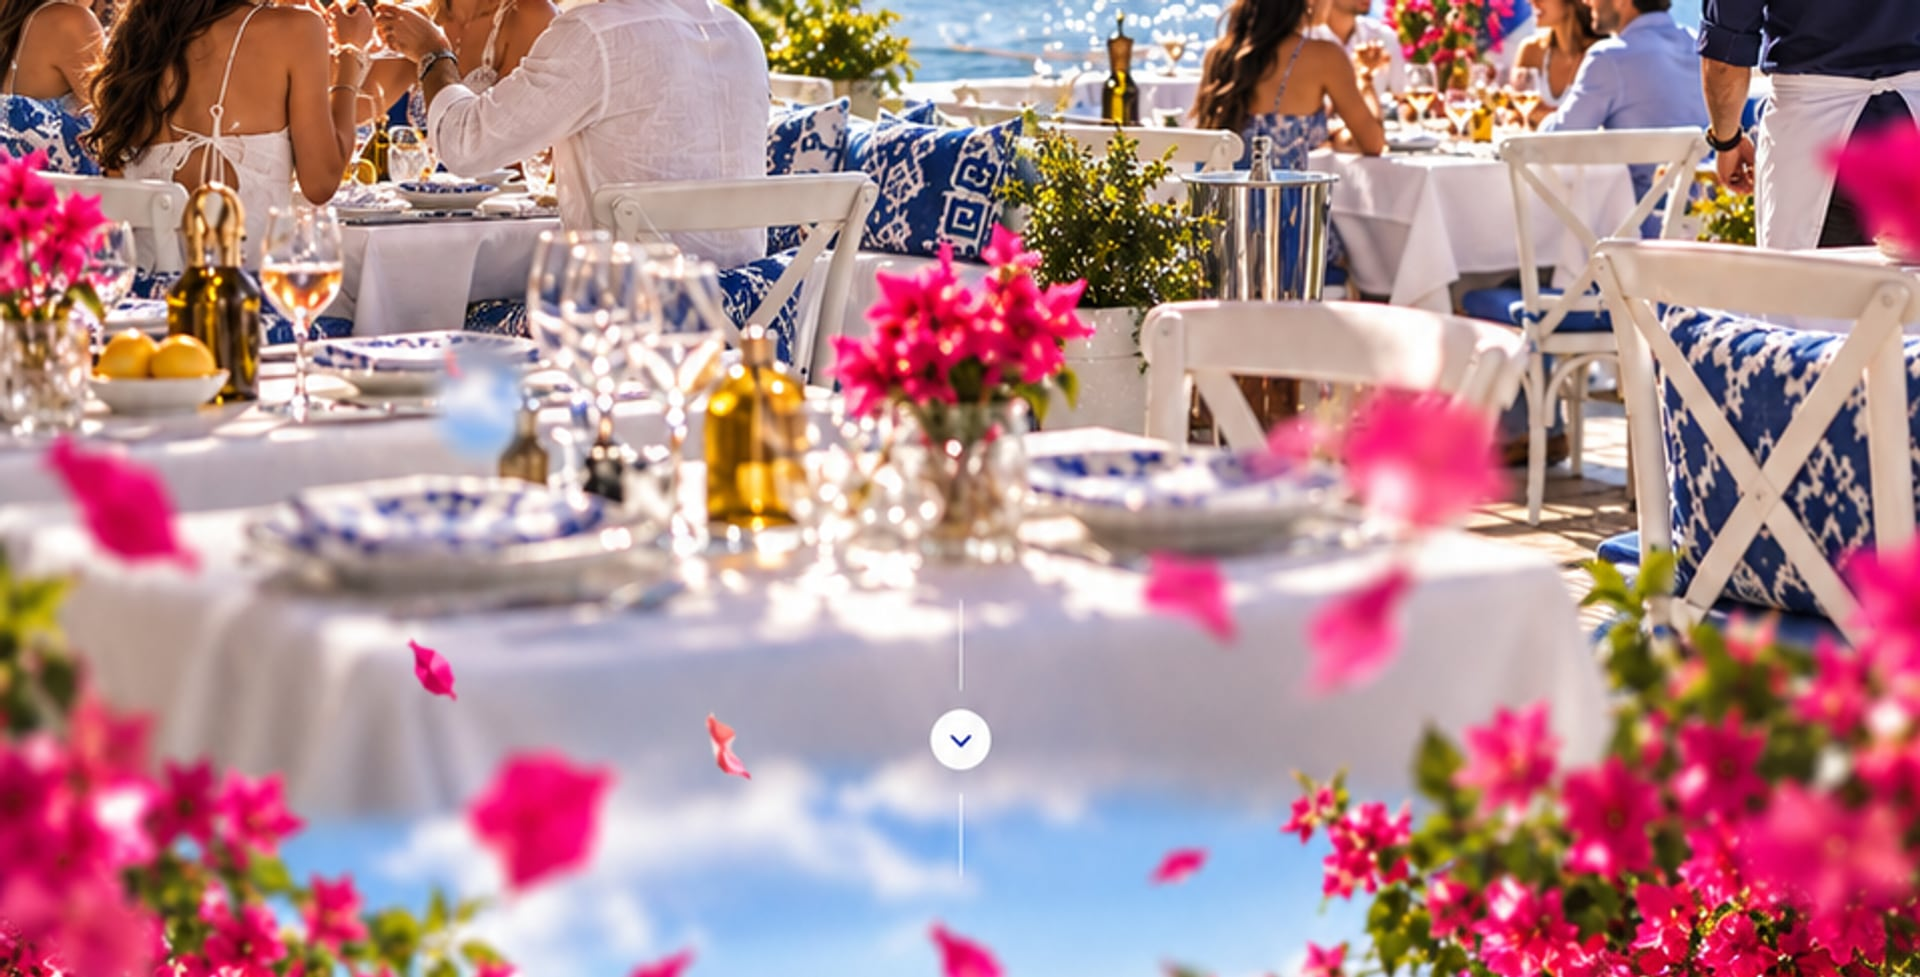
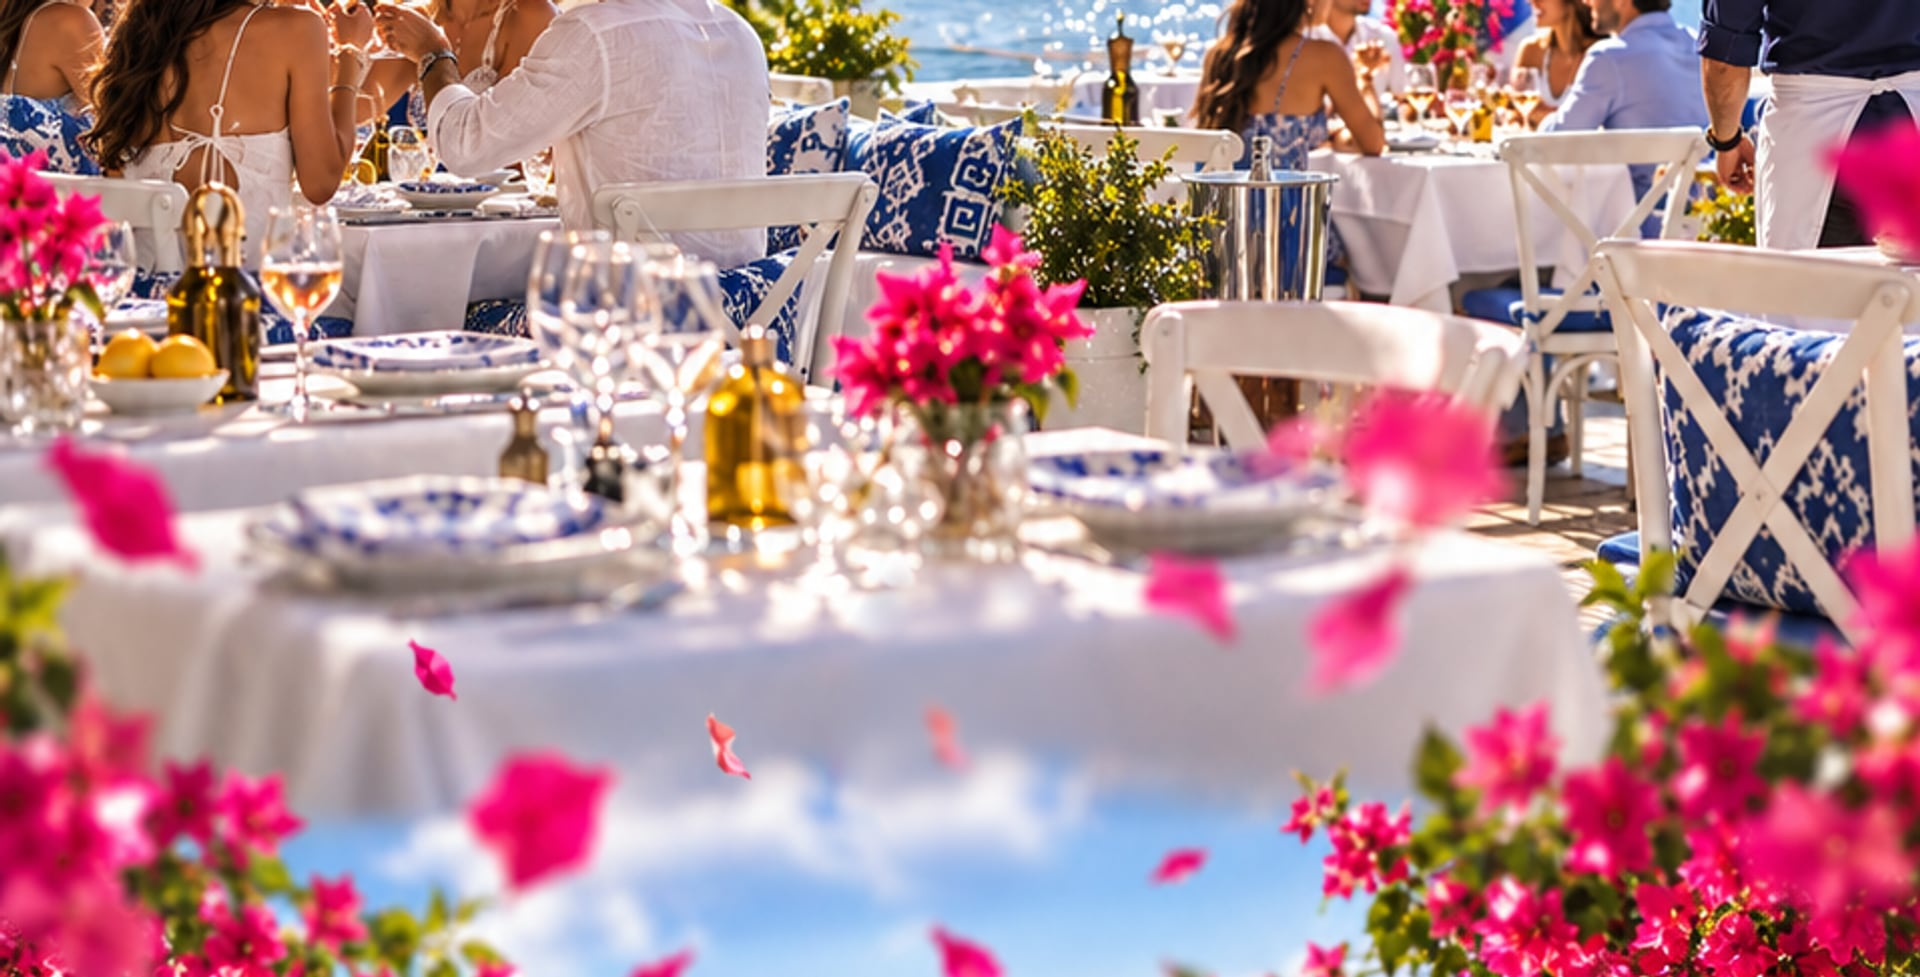
Polish sequence geometry, letter posters and interim crops
- Wheel section transparent and pulled up so the disc overlaps the letters
- Bodoni optical size lowered so hairlines survive at wordmark scale
- Per-letter poster focus, wheel label moved outside the clipped disc
- Interim hero/footer crops patched in a pre-resize pass (chevron, baked logo)
- Verification script checks the header appears after the sequence

Changed region(s): [[0.4375, 0.5527, 0.5625, 0.9212], [0.2188, 0.3378, 0.2812, 0.4913]]

diff --git a/data/site-content.ts b/data/site-content.ts
@@ -19,6 +19,8 @@ export interface LetterContent {
   char: "K" | "I";
   /** Accessible description of what plays inside the letter. */
   label: string;
+  /** CSS object-position for the poster and video inside the letter, e.g. "50% 20%". */
+  focus: string;
   video: VideoSource;
 }
 
@@ -69,6 +71,7 @@ export const siteContent = {
       id: "k1",
       char: "K",
       label: "A chef pouring rosé at the table",
+      focus: "50% 18%",
       video: {
         desktop: "/video/letters/k1.mp4",
         mobile: "/video/letters/k1-mobile.mp4",
@@ -79,6 +82,7 @@ export const siteContent = {
       id: "i1",
       char: "I",
       label: "Guests enjoying a Mediterranean lunch on the water",
+      focus: "50% 45%",
       video: {
         desktop: "/video/letters/i1.mp4",
         mobile: "/video/letters/i1-mobile.mp4",
@@ -89,6 +93,7 @@ export const siteContent = {
       id: "k2",
       char: "K",
       label: "A champagne celebration with sparklers",
+      focus: "50% 30%",
       video: {
         desktop: "/video/letters/k2.mp4",
         mobile: "/video/letters/k2-mobile.mp4",
@@ -99,6 +104,7 @@ export const siteContent = {
       id: "i2",
       char: "I",
       label: "Glamorous dancing as day turns into night",
+      focus: "50% 30%",
       video: {
         desktop: "/video/letters/i2.mp4",
         mobile: "/video/letters/i2-mobile.mp4",

diff --git a/components/ExperienceWheel.tsx b/components/ExperienceWheel.tsx
@@ -73,7 +73,7 @@ export default function ExperienceWheel() {
     <section
       ref={sectionRef}
       id="experience"
-      className="kiki-wheel-section relative z-10 bg-stone pb-[10svh]"
+      className="kiki-wheel-section relative z-10 bg-transparent pb-[10svh]"
       aria-labelledby={`${uid}-heading`}
     >
       <div className="mx-auto grid max-w-[1500px] grid-cols-1 items-start gap-10 px-5 md:px-10 lg:grid-cols-[1fr_auto_1fr] lg:gap-6">
@@ -193,11 +193,11 @@ export default function ExperienceWheel() {
                 quality={85}
                 className="object-cover"
               />
-              <div className="absolute inset-0 grid place-items-end pb-[9%]">
-                <span className="rounded-full bg-white/92 px-4 py-2 font-display text-[11px] tracking-[0.36em] text-cobalt shadow-sm md:px-5 md:text-[12.5px]">
-                  {wheel.center}
-                </span>
-              </div>
+            </div>
+            <div className="pointer-events-none absolute inset-x-0 bottom-[23%] flex justify-center">
+              <span className="whitespace-nowrap rounded-full bg-white/92 px-4 py-2 font-display text-[11px] tracking-[0.36em] text-cobalt shadow-sm md:px-5 md:text-[12.5px]">
+                {wheel.center}
+              </span>
             </div>
           </div>
         </div>

diff --git a/components/VideoLettermark.tsx b/components/VideoLettermark.tsx
@@ -50,10 +50,11 @@ interface Slot {
   ink: Ink;
 }
 
+/* Optical size kept low so the Didone hairlines stay visible at wordmark scale. */
 const FONT: CSSProperties = {
   fontFamily: "var(--font-display)",
   fontWeight: 800,
-  fontVariationSettings: '"opsz" 96',
+  fontVariationSettings: '"opsz" 24',
   letterSpacing: 0,
 };
 
@@ -271,7 +272,7 @@ export default function VideoLettermark({
                   sizes="(max-width: 767px) 48vw, 36vw"
                   quality={82}
                   className="object-cover"
-                  style={{ transform: "scale(1.06)" }}
+                  style={{ transform: "scale(1.06)", objectPosition: l.focus }}
                 />
                 {mode === "sequence" && (
                   <video
@@ -286,7 +287,7 @@ export default function VideoLettermark({
                     aria-label={l.label}
                     tabIndex={-1}
                     className="absolute inset-0 h-full w-full object-cover"
-                    style={{ transform: "scale(1.08)", opacity: 0 }}
+                    style={{ transform: "scale(1.08)", opacity: 0, objectPosition: l.focus }}
                   />
                 )}
               </div>

diff --git a/app/globals.css b/app/globals.css
@@ -84,7 +84,7 @@ body {
 }
 @media (min-width: 1024px) {
   .kiki-stage {
-    --wm-s0: 0.1667; /* 18vw / 108vw */
+    --wm-s0: 0.2037; /* 22vw / 108vw */
   }
 }
 
@@ -110,13 +110,15 @@ body {
     radial-gradient(45% 40% at 100% 0%, rgba(18, 56, 184, 0.05), transparent 70%);
 }
 
+/* Pulls the wheel up so its disc overlaps the bottom of the oversized letters
+   (the section itself is transparent so only the wheel overlaps). */
 .kiki-wheel-section {
-  margin-top: -42svh;
+  margin-top: -54svh;
   padding-top: 2svh;
 }
 @media (min-width: 768px) {
   .kiki-wheel-section {
-    margin-top: -38svh;
+    margin-top: -41svh;
   }
 }
 

diff --git a/components/KikiScrollSequence.tsx b/components/KikiScrollSequence.tsx
@@ -164,7 +164,7 @@ export default function KikiScrollSequence() {
         <p
           ref={noteRef}
           aria-hidden
-          className="script pointer-events-none absolute right-[4vw] top-[16svh] hidden rotate-[-8deg] text-right text-[30px] leading-[0.95] text-cobalt opacity-0 lg:block xl:text-[34px]"
+          className="script pointer-events-none absolute right-[4vw] top-[5svh] hidden rotate-[-8deg] text-right text-[30px] leading-[0.95] text-cobalt opacity-0 lg:block xl:text-[34px]"
         >
           {siteContent.sequenceNote[0]}
           <br />
